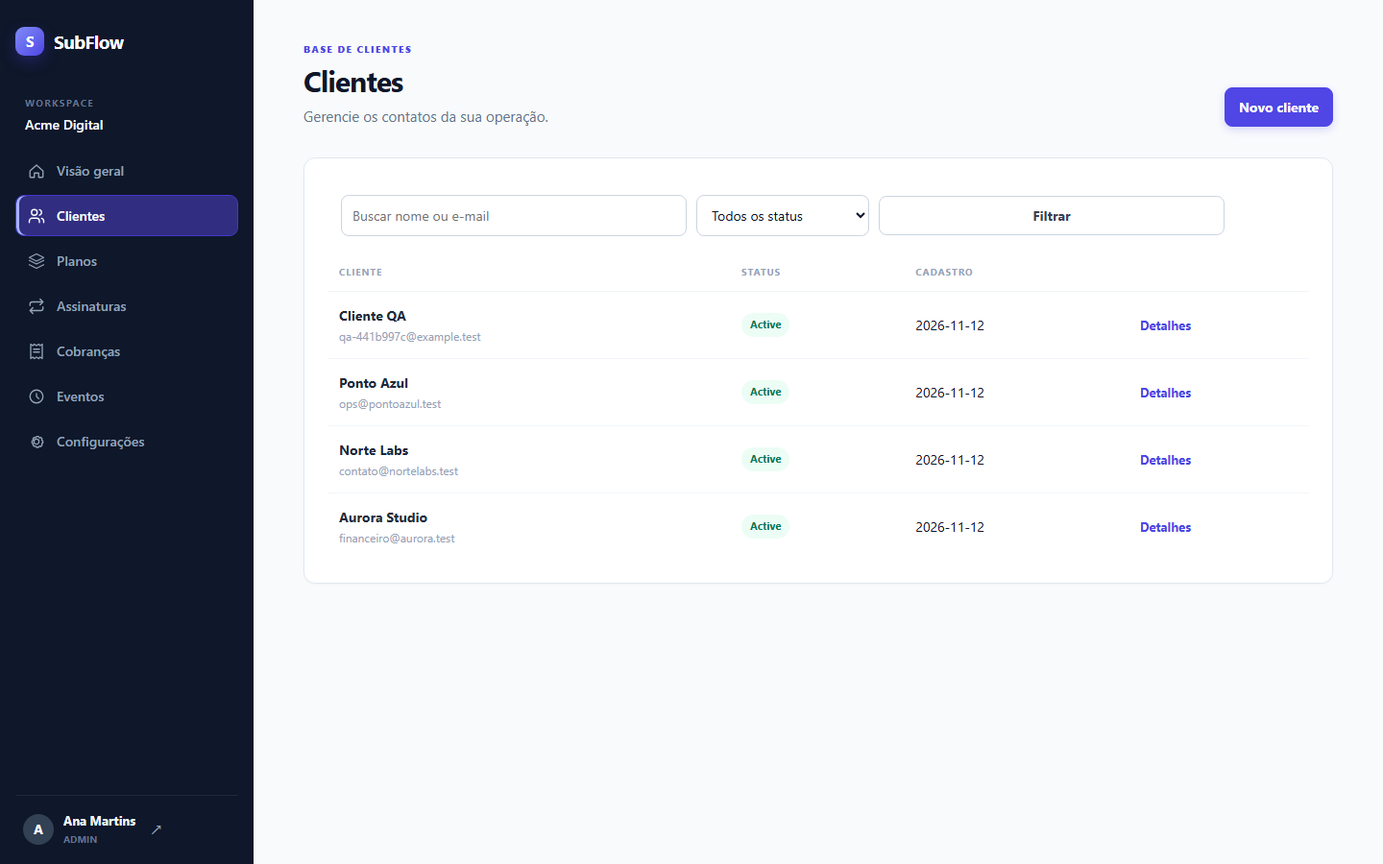
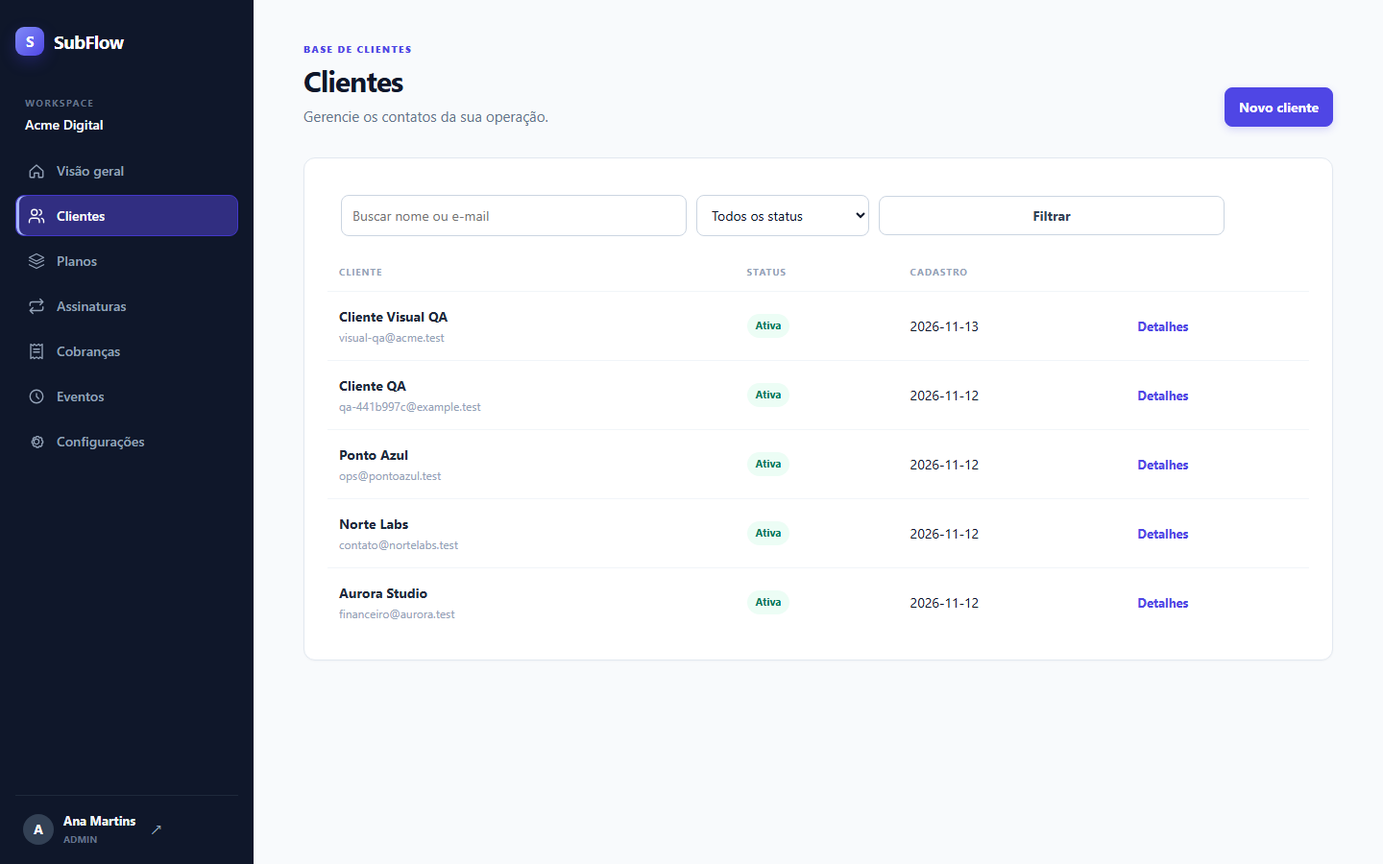
feat: refina dashboard, responsividade e apresentação do SubFlow

diff --git a/app/assets/stylesheets/application.css b/app/assets/stylesheets/application.css
@@ -1,3 +1,32 @@
 @import "tailwindcss";
-@layer base { :root{--ink:#0f172a;--muted:#64748b;--line:#e2e8f0;--surface:#fff;--canvas:#f8fafc;--primary:#4f46e5;--navy:#0f172a;--success:#059669;--warning:#d97706;--danger:#dc2626}*{box-sizing:border-box}body{margin:0;background:var(--canvas);color:var(--ink);font:14px Inter,ui-sans-serif,system-ui,-apple-system,BlinkMacSystemFont,"Segoe UI",sans-serif;line-height:1.5}a{color:inherit;text-decoration:none}button,input,select,textarea{font:inherit}button{cursor:pointer}h1,h2,h3,p{margin:0} }
-.app-shell{min-height:100vh;padding-left:264px}.sidebar{position:fixed;inset:0 auto 0 0;width:264px;background:var(--navy);padding:28px 16px 18px;color:#cbd5e1;display:flex;flex-direction:column;z-index:20}.brand{display:flex;align-items:center;gap:10px;color:#fff;font-size:19px;font-weight:750;letter-spacing:-.5px}.brand-mark{width:30px;height:30px;border-radius:9px;display:grid;place-items:center;background:linear-gradient(135deg,#818cf8,#4f46e5);font-size:15px;box-shadow:0 6px 16px #4338ca55}.workspace-label{color:#64748b;font-size:10px;font-weight:700;letter-spacing:.13em;margin:42px 10px 4px}.workspace-name{color:#f8fafc;font-weight:600;margin:0 10px 16px}.desktop-nav{display:grid;gap:4px}.nav-link{display:flex;align-items:center;gap:12px;padding:10px 12px;border:1px solid transparent;border-radius:9px;color:#94a3b8;font-weight:550;transition:.15s ease}.nav-link:hover{color:#fff;background:#1e293b}.nav-link.is-active{color:#fff;background:#312e81;border-color:#4338ca;box-shadow:inset 3px 0 #a5b4fc}.icon{width:18px;height:18px;flex:none}.sidebar-user{border-top:1px solid #1e293b;margin-top:auto;padding:16px 8px 0;display:flex;align-items:center;gap:10px}.avatar{width:32px;height:32px;border-radius:50%;background:#334155;color:#fff;display:grid;place-items:center;font-weight:700}.sidebar-user strong{display:block;color:#f1f5f9;font-size:13px}.sidebar-user small{display:block;color:#64748b;font-size:10px;font-weight:700;margin-top:2px}.logout-button{margin-left:auto;border:0;background:transparent;color:#94a3b8;font-size:18px;padding:5px}.logout-button:hover{color:#fff}.mobile-topbar{display:none}.main{max-width:1440px;margin:0 auto;padding:44px 52px 64px}.page-header{display:flex;justify-content:space-between;align-items:flex-end;gap:24px;margin-bottom:32px}.eyebrow{color:var(--primary);font-size:10px;font-weight:800;letter-spacing:.14em;margin-bottom:8px}.page-header h1{font-size:30px;letter-spacing:-1px;line-height:1.15}.page-description{color:var(--muted);margin-top:8px;font-size:15px}.header-action{flex:none}.button{display:inline-flex;align-items:center;justify-content:center;min-height:40px;padding:9px 14px;border:1px solid #cbd5e1;border-radius:8px;background:#fff;color:#334155;font-weight:650;white-space:nowrap;transition:.15s}.button:hover{border-color:#94a3b8;background:#f8fafc}.button.primary{background:var(--primary);border-color:var(--primary);color:#fff;box-shadow:0 3px 8px #4f46e533}.button.primary:hover{background:#4338ca}.button.danger{color:#b91c1c;border-color:#fecaca}.button.danger:hover{background:#fff1f2}.section-card,.panel{background:var(--surface);border:1px solid var(--line);border-radius:12px;box-shadow:0 1px 2px #0f172a08}.panel{padding:24px}.section-heading{display:flex;justify-content:space-between;align-items:center;margin-bottom:18px}.section-heading h2{font-size:16px;letter-spacing:-.2px}.section-heading a{color:var(--primary);font-weight:650;font-size:13px}.metric-grid{display:grid;grid-template-columns:repeat(4,minmax(0,1fr));gap:16px;margin-bottom:20px}.metric{padding:19px;border:1px solid var(--line);border-radius:12px;background:#fff;min-height:126px;display:flex;flex-direction:column}.metric-label{display:flex;align-items:center;justify-content:space-between;color:var(--muted);font-size:12px;font-weight:650}.metric-icon{width:28px;height:28px;display:grid;place-items:center;border-radius:8px;background:#eef2ff;color:var(--primary)}.metric strong{font-size:25px;letter-spacing:-1px;margin-top:auto}.metric small{color:var(--muted);font-size:11px}.metric.featured{grid-column:span 2;background:linear-gradient(135deg,#312e81,#4f46e5);border:0;color:#fff;box-shadow:0 12px 24px #4338ca2e}.metric.featured .metric-label,.metric.featured small{color:#c7d2fe}.metric.featured .metric-icon{background:#ffffff1c;color:#fff}.metric.featured strong{font-size:31px}.dashboard-lower{display:grid;grid-template-columns:minmax(0,1.55fr) minmax(270px,.75fr);gap:20px}.status-summary{display:grid;gap:13px}.status-row{display:grid;grid-template-columns:76px 1fr 28px;gap:10px;align-items:center;font-size:12px;color:#475569}.status-track{height:7px;border-radius:99px;background:#f1f5f9;overflow:hidden}.status-fill{height:100%;border-radius:inherit;background:#818cf8}.status-fill.paid{background:#34d399}.status-fill.failed{background:#fb7185}.status-badge{display:inline-flex;width:max-content;align-items:center;border-radius:999px;padding:4px 9px;font-size:11px;font-weight:750;text-transform:capitalize;background:#eef2ff;color:#4338ca}.status-active,.status-paid{background:#ecfdf5;color:#047857}.status-canceled,.status-failed{background:#fff1f2;color:#be123c}.status-open,.status-past_due,.status-trialing{background:#fffbeb;color:#b45309}.status-inactive{background:#f1f5f9;color:#475569}.table-wrap{overflow-x:auto}.data-table{width:100%;border-collapse:collapse}.data-table th{text-align:left;color:#94a3b8;font-size:10px;text-transform:uppercase;letter-spacing:.09em;padding:0 12px 12px;font-weight:750}.data-table td{padding:14px 12px;border-top:1px solid #f1f5f9;vertical-align:middle}.data-table tr:hover td{background:#fafafa}.entity-name{font-weight:650;color:#1e293b}.entity-meta{display:block;color:#94a3b8;font-size:12px;margin-top:2px}.table-link{color:var(--primary);font-weight:650;font-size:13px}.cards{display:grid;grid-template-columns:repeat(auto-fit,minmax(250px,1fr));gap:16px}.plan-card{position:relative;padding:22px;display:flex;flex-direction:column;gap:16px;background:#fff;border:1px solid var(--line);border-radius:12px;transition:.15s}.plan-card:hover{transform:translateY(-2px);box-shadow:0 12px 22px #0f172a0d;border-color:#c7d2fe}.plan-card h2{font-size:18px}.plan-card p{color:var(--muted);font-size:13px;min-height:40px}.plan-price{font-size:26px;font-weight:750;letter-spacing:-1px}.plan-price small{font-size:12px;color:var(--muted);font-weight:500;letter-spacing:0}.plan-card .button{margin-top:auto}.form-card{max-width:760px}.form-grid{display:grid;grid-template-columns:repeat(2,minmax(0,1fr));gap:18px}.form-grid label{display:grid;gap:7px;color:#334155;font-size:13px;font-weight:650}.wide{grid-column:1/-1}.form-actions{display:flex;align-items:end;gap:10px}.field-hint{color:#94a3b8;font-size:11px;font-weight:450}input,select,textarea{width:100%;border:1px solid #cbd5e1;border-radius:8px;background:#fff;color:#0f172a;padding:10px 11px;outline:0;transition:.15s}textarea{min-height:100px;resize:vertical}input:focus,select:focus,textarea:focus{border-color:#6366f1;box-shadow:0 0 0 3px #6366f11f}.check-label{display:flex!important;align-items:center;gap:9px}.check-label input{width:16px;height:16px}.filters{display:flex;align-items:center;gap:10px;padding:14px;margin-bottom:16px}.filters input{max-width:360px}.filters select{max-width:180px}.detail-grid{display:grid;grid-template-columns:repeat(3,minmax(0,1fr));gap:0}.detail-grid>div{padding:2px 22px;border-right:1px solid var(--line);display:grid;gap:7px}.detail-grid>div:first-child{padding-left:0}.detail-grid>div:last-child{border:0}.detail-label{color:#94a3b8;font-size:11px;text-transform:uppercase;font-weight:750;letter-spacing:.08em}.simulation{display:flex;align-items:center;gap:10px;background:#fffbeb;border:1px solid #fde68a;border-radius:10px;padding:12px 14px;color:#92400e;font-size:12px}.simulation strong{letter-spacing:.05em}.empty-state{text-align:center;padding:48px 20px;color:var(--muted)}.empty-icon{width:42px;height:42px;border-radius:12px;margin:0 auto 12px;display:grid;place-items:center;background:#eef2ff;color:#4f46e5;font-size:25px}.empty-state h2{font-size:16px;color:#334155;margin-bottom:5px}.empty-state p{font-size:13px;max-width:350px;margin:0 auto 16px}.form-error,.flash{display:flex;gap:9px;align-items:center;border-radius:9px;padding:12px 14px;margin-bottom:20px;font-size:13px}.form-error,.flash-alert{background:#fff1f2;color:#be123c;border:1px solid #fecdd3}.flash-notice{background:#ecfdf5;color:#047857;border:1px solid #a7f3d0}.flash span{font-weight:800}.auth-shell{min-height:100vh;background:#f8fafc}.auth-shell .main{padding:0;max-width:none}.auth-layout{min-height:100vh;display:grid;grid-template-columns:1fr 1fr}.auth-aside{background:linear-gradient(145deg,#0f172a,#1e1b4b);color:#fff;padding:clamp(36px,7vw,100px);display:flex;flex-direction:column}.auth-aside .brand{margin-bottom:auto}.auth-aside h1{font-size:clamp(32px,4vw,52px);line-height:1.06;letter-spacing:-2px;max-width:480px;margin-top:80px}.auth-aside p{color:#c7d2fe;max-width:410px;margin-top:18px;font-size:16px}.auth-points{display:grid;gap:12px;margin-top:40px;color:#e0e7ff;font-size:13px}.auth-points span:before{content:'✓';color:#a5b4fc;margin-right:10px}.auth-content{display:grid;place-items:center;padding:32px}.auth-card{width:min(100%,420px)}.auth-card .brand{color:var(--ink);margin-bottom:42px}.auth-card h1{font-size:28px;letter-spacing:-1px;margin-bottom:8px}.auth-card>p{color:var(--muted)}.auth-card form{display:grid;gap:17px;margin:30px 0}.auth-card label{display:grid;gap:7px;color:#334155;font-size:13px;font-weight:650}.auth-card .button{width:100%;margin-top:5px}.auth-footer{font-size:13px}.auth-footer a{color:var(--primary);font-weight:650}.sr-only{position:absolute;width:1px;height:1px;padding:0;margin:-1px;overflow:hidden;clip:rect(0,0,0,0);white-space:nowrap;border:0}@media(max-width:900px){.app-shell{padding-left:0}.sidebar{display:none}.mobile-topbar{height:64px;padding:0 20px;background:var(--navy);display:flex;align-items:center;justify-content:space-between}.mobile-menu summary{list-style:none;color:#fff;font-size:24px;cursor:pointer;padding:8px}.mobile-menu summary::-webkit-details-marker{display:none}.mobile-menu nav{position:absolute;right:14px;top:57px;width:260px;padding:10px;background:#0f172a;border:1px solid #334155;border-radius:10px;box-shadow:0 18px 40px #0f172a55;display:grid;gap:3px}.mobile-menu .nav-link{color:#cbd5e1}.mobile-menu .nav-link.is-active{background:#312e81}.mobile-logout{border:0;border-top:1px solid #334155;background:transparent;color:#cbd5e1;text-align:left;padding:12px;font-weight:650;margin-top:5px}.main{padding:32px 28px}.metric-grid{grid-template-columns:repeat(2,minmax(0,1fr))}.dashboard-lower{grid-template-columns:1fr}.auth-layout{grid-template-columns:1fr}.auth-aside{display:none}}@media(max-width:560px){.main{padding:26px 16px 44px}.page-header{display:block;margin-bottom:24px}.page-header h1{font-size:25px}.header-action{margin-top:16px}.header-action .button{width:100%}.metric-grid{grid-template-columns:1fr;gap:12px}.metric.featured{grid-column:auto}.metric{min-height:108px}.filters{display:grid}.filters input,.filters select{max-width:none}.filters .button{width:100%}.panel{padding:17px;border-radius:10px}.data-table th,.data-table td{padding-left:8px;padding-right:8px}.form-grid{grid-template-columns:1fr}.form-actions{display:grid}.form-actions .button{width:100%}.detail-grid{grid-template-columns:1fr;gap:14px}.detail-grid>div{padding:0;border:0}.simulation{align-items:flex-start;flex-wrap:wrap}.auth-content{padding:28px 22px}.auth-card .brand{margin-bottom:32px}}@media(prefers-reduced-motion:reduce){*,*:before,*:after{transition:none!important;scroll-behavior:auto!important}}
+
+@layer base {
+  :root { --ink:#0f172a; --muted:#64748b; --line:#e2e8f0; --surface:#fff; --canvas:#f8fafc; --primary:#4f46e5; --navy:#0f172a; }
+  * { box-sizing:border-box; }
+  body { margin:0; background:var(--canvas); color:var(--ink); font:14px Inter,ui-sans-serif,system-ui,-apple-system,"Segoe UI",sans-serif; line-height:1.5; }
+  a { color:inherit; text-decoration:none; } button,input,select,textarea { font:inherit; } button { cursor:pointer; } h1,h2,h3,p { margin:0; }
+}
+
+.app-shell { min-height:100vh; padding-left:264px; background:var(--navy); }
+.sidebar { position:fixed; inset:0 auto 0 0; z-index:20; display:flex; flex-direction:column; width:264px; padding:28px 16px 18px; color:#cbd5e1; background:var(--navy); }
+.brand { display:flex; align-items:center; gap:10px; color:#fff; font-size:19px; font-weight:750; letter-spacing:-.5px; }
+.brand-mark { display:grid; width:30px; height:30px; place-items:center; border-radius:9px; background:linear-gradient(135deg,#818cf8,#4f46e5); font-size:15px; box-shadow:0 6px 16px #4338ca55; }
+.workspace-label { margin:42px 10px 4px; color:#64748b; font-size:10px; font-weight:700; letter-spacing:.13em; }.workspace-name { margin:0 10px 16px; color:#f8fafc; font-weight:600; }
+.desktop-nav { display:grid; gap:4px; }.nav-link { display:flex; align-items:center; gap:12px; padding:10px 12px; border:1px solid transparent; border-radius:9px; color:#94a3b8; font-weight:550; transition:.15s ease; }.nav-link:hover { color:#fff; background:#1e293b; }.nav-link.is-active { border-color:#4338ca; color:#fff; background:#312e81; box-shadow:inset 3px 0 #a5b4fc; }.icon { flex:none; width:18px; height:18px; }
+.sidebar-user { display:flex; align-items:center; gap:10px; margin-top:auto; padding:16px 8px 0; border-top:1px solid #1e293b; }.avatar { display:grid; width:32px; height:32px; place-items:center; border-radius:50%; color:#fff; background:#334155; font-weight:700; }.sidebar-user strong { display:block; color:#f1f5f9; font-size:13px; }.sidebar-user small { display:block; margin-top:2px; color:#64748b; font-size:10px; font-weight:700; }.logout-button { margin-left:auto; padding:5px; border:0; color:#94a3b8; background:transparent; font-size:18px; }.logout-button:hover { color:#fff; }
+.mobile-topbar { display:none; }.main { min-height:100vh; max-width:1440px; margin:0 auto; padding:44px 52px 64px; background:var(--canvas); }
+.page-header { display:flex; align-items:flex-end; justify-content:space-between; gap:24px; margin-bottom:32px; }.eyebrow { margin-bottom:8px; color:var(--primary); font-size:10px; font-weight:800; letter-spacing:.14em; }.page-header h1 { font-size:30px; line-height:1.15; letter-spacing:-1px; }.page-description { margin-top:8px; color:var(--muted); font-size:15px; }.header-action { flex:none; }
+.button { display:inline-flex; align-items:center; justify-content:center; min-height:40px; padding:9px 14px; border:1px solid #cbd5e1; border-radius:8px; color:#334155; background:#fff; font-weight:650; white-space:nowrap; transition:.15s; }.button:hover { border-color:#94a3b8; background:#f8fafc; }.button.primary { border-color:var(--primary); color:#fff; background:var(--primary); box-shadow:0 3px 8px #4f46e533; }.button.primary:hover { background:#4338ca; }.button.danger { border-color:#fecaca; color:#b91c1c; }.button.danger:hover { background:#fff1f2; }
+.panel,.section-card { border:1px solid var(--line); border-radius:12px; background:var(--surface); box-shadow:0 1px 2px #0f172a08; }.panel { padding:24px; }.section-heading { display:flex; align-items:center; justify-content:space-between; margin-bottom:18px; }.section-heading h2 { font-size:16px; letter-spacing:-.2px; }.section-heading a,.table-link { color:var(--primary); font-size:13px; font-weight:650; }
+.metric-grid { display:grid; grid-template-columns:repeat(4,minmax(0,1fr)); gap:16px; margin-bottom:20px; }.metric { display:flex; flex-direction:column; min-height:138px; padding:19px; border:1px solid var(--line); border-radius:12px; background:#fff; }.metric-label { display:flex; align-items:center; justify-content:space-between; color:var(--muted); font-size:12px; font-weight:650; }.metric-icon { display:grid; width:28px; height:28px; place-items:center; border-radius:8px; color:var(--primary); background:#eef2ff; }.metric strong { margin-top:auto; font-size:27px; letter-spacing:-1px; }.metric small { color:var(--muted); font-size:11px; }.metric.featured { color:#fff; border:0; background:linear-gradient(135deg,#312e81,#4f46e5); box-shadow:0 12px 24px #4338ca2e; }.metric.featured .metric-label,.metric.featured small { color:#c7d2fe; }.metric.featured .metric-icon { color:#fff; background:#ffffff1c; }.metric.featured strong { font-size:29px; }
+.dashboard-lower { display:grid; grid-template-columns:minmax(0,1.55fr) minmax(280px,.75fr); gap:20px; }.status-summary { display:grid; gap:14px; }.status-row { display:grid; grid-template-columns:78px 1fr 28px; gap:10px; align-items:center; color:#475569; font-size:12px; }.status-track { height:7px; overflow:hidden; border-radius:99px; background:#f1f5f9; }.status-fill { height:100%; border-radius:inherit; background:#818cf8; }.status-fill.paid { background:#34d399; }.status-fill.failed { background:#fb7185; }
+.table-wrap { overflow-x:auto; }.data-table { width:100%; border-collapse:collapse; }.data-table th { padding:0 12px 12px; color:#94a3b8; font-size:10px; font-weight:750; letter-spacing:.09em; text-align:left; text-transform:uppercase; }.data-table td { padding:15px 12px; border-top:1px solid #f1f5f9; vertical-align:middle; }.data-table tr:hover td { background:#fafafa; }.entity-name { color:#1e293b; font-weight:650; }.entity-meta { display:block; margin-top:2px; color:#94a3b8; font-size:12px; }.status-badge { display:inline-flex; align-items:center; width:max-content; padding:4px 9px; border-radius:999px; color:#4338ca; background:#eef2ff; font-size:11px; font-weight:750; }.status-active,.status-paid { color:#047857; background:#ecfdf5; }.status-canceled,.status-failed { color:#be123c; background:#fff1f2; }.status-open,.status-past_due,.status-trialing { color:#b45309; background:#fffbeb; }.status-inactive { color:#475569; background:#f1f5f9; }
+.pagination { display:flex; align-items:center; justify-content:space-between; gap:12px; margin-top:18px; padding-top:16px; border-top:1px solid #f1f5f9; color:var(--muted); font-size:12px; }.pagination-links { display:flex; gap:8px; }.pagination .button[aria-disabled="true"] { pointer-events:none; opacity:.45; }
+.cards { display:grid; grid-template-columns:repeat(auto-fit,minmax(250px,1fr)); gap:16px; }.plan-card { display:flex; flex-direction:column; gap:16px; padding:22px; border:1px solid var(--line); border-radius:12px; background:#fff; transition:.15s; }.plan-card:hover { border-color:#c7d2fe; box-shadow:0 12px 22px #0f172a0d; transform:translateY(-2px); }.plan-card h2 { font-size:18px; }.plan-card p { min-height:40px; color:var(--muted); font-size:13px; }.plan-price { font-size:26px; font-weight:750; letter-spacing:-1px; }.plan-price small { color:var(--muted); font-size:12px; font-weight:500; letter-spacing:0; }.plan-card .button { margin-top:auto; }
+.form-card { max-width:760px; }.form-grid { display:grid; grid-template-columns:repeat(2,minmax(0,1fr)); gap:18px; }.form-grid label { display:grid; gap:7px; color:#334155; font-size:13px; font-weight:650; }.wide { grid-column:1/-1; }.form-actions { display:flex; align-items:end; gap:10px; }.field-hint { color:#94a3b8; font-size:11px; font-weight:450; } input,select,textarea { width:100%; padding:10px 11px; border:1px solid #cbd5e1; border-radius:8px; outline:0; color:#0f172a; background:#fff; transition:.15s; } textarea { min-height:100px; resize:vertical; } input:focus,select:focus,textarea:focus { border-color:#6366f1; box-shadow:0 0 0 3px #6366f11f; }.check-label { display:flex!important; align-items:center; gap:9px; }.check-label input { width:16px; height:16px; }
+.filters { display:flex; align-items:center; gap:10px; padding:14px; margin-bottom:16px; }.filters input { max-width:360px; }.filters select { max-width:180px; }.detail-grid { display:grid; grid-template-columns:repeat(3,minmax(0,1fr)); gap:0; }.detail-grid>div { display:grid; gap:7px; padding:2px 22px; border-right:1px solid var(--line); }.detail-grid>div:first-child { padding-left:0; }.detail-grid>div:last-child { border:0; }.detail-label { color:#94a3b8; font-size:11px; font-weight:750; letter-spacing:.08em; text-transform:uppercase; }.simulation { display:flex; align-items:center; gap:10px; padding:12px 14px; border:1px solid #fde68a; border-radius:10px; color:#92400e; background:#fffbeb; font-size:12px; }.simulation strong { letter-spacing:.05em; }
+.empty-state { padding:48px 20px; color:var(--muted); text-align:center; }.empty-icon { display:grid; width:42px; height:42px; margin:0 auto 12px; place-items:center; border-radius:12px; color:#4f46e5; background:#eef2ff; font-size:25px; }.empty-state h2 { margin-bottom:5px; color:#334155; font-size:16px; }.empty-state p { max-width:350px; margin:0 auto 16px; font-size:13px; }.form-error,.flash { display:flex; align-items:center; gap:9px; padding:12px 14px; margin-bottom:20px; border-radius:9px; font-size:13px; }.form-error,.flash-alert { border:1px solid #fecdd3; color:#be123c; background:#fff1f2; }.flash-notice { border:1px solid #a7f3d0; color:#047857; background:#ecfdf5; }.flash span { font-weight:800; }
+.auth-shell { min-height:100vh; background:#f8fafc; }.auth-shell .main { max-width:none; padding:0; }.auth-layout { display:grid; min-height:100vh; grid-template-columns:1fr 1fr; }.auth-aside { display:flex; flex-direction:column; padding:clamp(36px,7vw,100px); color:#fff; background:linear-gradient(145deg,#0f172a,#1e1b4b); }.auth-aside .brand { margin-bottom:auto; }.auth-aside h1 { max-width:480px; margin-top:80px; font-size:clamp(32px,4vw,52px); line-height:1.06; letter-spacing:-2px; }.auth-aside p { max-width:410px; margin-top:18px; color:#c7d2fe; font-size:16px; }.auth-points { display:grid; gap:12px; margin-top:40px; color:#e0e7ff; font-size:13px; }.auth-points span:before { content:"✓"; margin-right:10px; color:#a5b4fc; }.auth-content { display:grid; padding:32px; place-items:center; }.auth-card { width:min(100%,420px); }.auth-card .brand { margin-bottom:42px; color:var(--ink); }.auth-card h1 { margin-bottom:8px; font-size:28px; letter-spacing:-1px; }.auth-card>p { color:var(--muted); }.auth-card form { display:grid; gap:17px; margin:30px 0; }.auth-card label { display:grid; gap:7px; color:#334155; font-size:13px; font-weight:650; }.auth-card .button { width:100%; margin-top:5px; }.auth-footer { font-size:13px; }.auth-footer a { color:var(--primary); font-weight:650; }.sr-only { position:absolute; width:1px; height:1px; padding:0; margin:-1px; overflow:hidden; clip:rect(0,0,0,0); white-space:nowrap; border:0; }
+@media (max-width:900px) { .app-shell { padding-left:0; }.sidebar { display:none; }.mobile-topbar { display:flex; align-items:center; justify-content:space-between; height:64px; padding:0 20px; background:var(--navy); }.mobile-menu summary { padding:8px; color:#fff; cursor:pointer; font-size:24px; list-style:none; }.mobile-menu summary::-webkit-details-marker { display:none; }.mobile-menu nav { position:absolute; top:57px; right:14px; z-index:30; display:grid; width:260px; gap:3px; padding:10px; border:1px solid #334155; border-radius:10px; background:#0f172a; box-shadow:0 18px 40px #0f172a55; }.mobile-menu .nav-link { color:#cbd5e1; }.mobile-menu .nav-link.is-active { background:#312e81; }.mobile-logout { padding:12px; margin-top:5px; border:0; border-top:1px solid #334155; color:#cbd5e1; background:transparent; font-weight:650; text-align:left; }.main { padding:32px 28px; }.metric-grid { grid-template-columns:repeat(2,minmax(0,1fr)); }.dashboard-lower { grid-template-columns:1fr; }.auth-layout { grid-template-columns:1fr; }.auth-aside { display:none; } }
+@media (max-width:560px) { .main { padding:26px 16px 44px; }.page-header { display:block; margin-bottom:24px; }.page-header h1 { font-size:25px; }.header-action { margin-top:16px; }.header-action .button { width:100%; }.metric-grid { grid-template-columns:1fr; gap:12px; }.metric { min-height:108px; }.filters { display:grid; }.filters input,.filters select { max-width:none; }.filters .button { width:100%; }.panel { padding:17px; border-radius:10px; }.data-table th,.data-table td { padding-right:8px; padding-left:8px; }.form-grid { grid-template-columns:1fr; }.form-actions { display:grid; }.form-actions .button { width:100%; }.detail-grid { grid-template-columns:1fr; gap:14px; }.detail-grid>div { padding:0; border:0; }.simulation { align-items:flex-start; flex-wrap:wrap; }.pagination { align-items:flex-start; flex-direction:column; }.auth-content { padding:28px 22px; }.auth-card .brand { margin-bottom:32px; } }
+@media (prefers-reduced-motion:reduce) { *,*:before,*:after { scroll-behavior:auto!important; transition:none!important; } }

diff --git a/app/helpers/application_helper.rb b/app/helpers/application_helper.rb
@@ -1,8 +1,20 @@
 module ApplicationHelper
   NAV_ITEMS = [ [ "Visão geral", :root_path, "home" ], [ "Clientes", :customers_path, "users" ], [ "Planos", :plans_path, "layers" ], [ "Assinaturas", :subscriptions_path, "repeat" ], [ "Cobranças", :invoices_path, "receipt" ], [ "Eventos", :audit_events_path, "clock" ], [ "Configurações", :settings_path, "settings" ] ].freeze
 
+  STATUS_LABELS = {
+    active: "Ativa", canceled: "Cancelada", trialing: "Em teste", past_due: "Em atraso",
+    open: "Aberta", paid: "Paga", failed: "Com falha", void: "Cancelada", inactive: "Inativo"
+  }.freeze
+  ENTITY_LABELS = { "Invoice" => "Fatura", "Subscription" => "Assinatura", "Customer" => "Cliente", "Plan" => "Plano" }.freeze
+  AUDIT_ACTIONS = { "invoice.generated" => "Fatura gerada", "subscription.created" => "Assinatura criada", "subscription.activated" => "Assinatura ativada", "subscription.canceled" => "Assinatura cancelada", "customer.created" => "Cliente criado", "customer.updated" => "Cliente atualizado", "plan.created" => "Plano criado", "plan.updated" => "Plano atualizado" }.freeze
+
   def money(cents) = number_to_currency(cents.to_i / 100.0, unit: "R$ ", separator: ",", delimiter: ".")
-  def status_badge(status) = content_tag(:span, status.to_s.humanize, class: "status-badge status-#{status}")
+  def format_date(date) = date.present? ? I18n.l(date, format: "%d/%m/%Y") : "—"
+  def format_datetime(datetime) = datetime.present? ? I18n.l(datetime, format: "%d/%m/%Y às %H:%M") : "—"
+  def status_label(status) = STATUS_LABELS.fetch(status.to_sym, status.to_s.humanize)
+  def status_badge(status) = content_tag(:span, status_label(status), class: "status-badge status-#{status}")
+  def entity_label(type) = ENTITY_LABELS.fetch(type, type)
+  def audit_action_label(action) = AUDIT_ACTIONS.fetch(action, action.tr(".", " ").humanize)
 
   def nav_icon(name)
     paths = { "home" => "M3 12l9-8 9 8v8a1 1 0 01-1 1h-5v-6H9v6H4a1 1 0 01-1-1v-8z", "users" => "M16 21v-2a4 4 0 00-4-4H6a4 4 0 00-4 4v2M9 11a4 4 0 100-8 4 4 0 000 8zm13 10v-2a4 4 0 00-3-3.87M16 3.13a4 4 0 010 7.75", "layers" => "M12 2L2 7l10 5 10-5-10-5zm-10 9l10 5 10-5M2 17l10 5 10-5", "repeat" => "M17 2l4 4-4 4M3 11V9a3 3 0 013-3h15M7 22l-4-4 4-4m14-1v2a3 3 0 01-3 3H3", "receipt" => "M4 2v20l3-2 2 2 3-2 3 2 2-2 3 2V2l-3 2-2-2-3 2-3-2-2 2-3-2zM8 9h8M8 13h8", "clock" => "M12 8v4l3 3m6-3a9 9 0 11-18 0 9 9 0 0118 0z", "settings" => "M12 15.5a3.5 3.5 0 100-7 3.5 3.5 0 000 7zM19.4 15a1.65 1.65 0 00.33 1.82l.06.06-2 2-.06-.06a1.65 1.65 0 00-1.82-.33 1.65 1.65 0 00-1 1.51V20h-3v-.09a1.65 1.65 0 00-1-1.51 1.65 1.65 0 00-1.82.33l-.06.06-2-2 .06-.06A1.65 1.65 0 007.4 15a1.65 1.65 0 00-1.51-1H5.8v-3h.09a1.65 1.65 0 001.51-1 1.65 1.65 0 00-.33-1.82L7 8.12l2-2 .06.06a1.65 1.65 0 001.82.33 1.65 1.65 0 001-1.51V4.9h3V5a1.65 1.65 0 001 1.51 1.65 1.65 0 001.82-.33l.06-.06 2 2-.06.06A1.65 1.65 0 0019.4 10c.15.61.69 1 1.31 1h.09v3h-.09c-.62 0-1.16.39-1.31 1z" }

diff --git a/spec/requests/invoices_pagination_spec.rb b/spec/requests/invoices_pagination_spec.rb
@@ -1,0 +1,26 @@
+require "rails_helper"
+
+RSpec.describe "Paginação de faturas", type: :request do
+  let(:account) { create(:account) }
+  let(:admin) { create(:user, account:) }
+
+  before do
+    post login_path, params: { email: admin.email, password: "password-segura-123" }
+  end
+
+  it "pagina no backend sem expor faturas de outra empresa" do
+    create_list(:invoice, 16, account:)
+    other_invoice = create(:invoice)
+
+    get invoices_path
+
+    expect(response).to have_http_status(:ok)
+    expect(response.body).to include("Página <strong>1</strong> de <strong>2</strong>")
+    expect(response.body).not_to include("Fatura ##{other_invoice.id}")
+
+    get invoices_path(page: 2)
+
+    expect(response).to have_http_status(:ok)
+    expect(response.body).to include("Página <strong>2</strong> de <strong>2</strong>")
+  end
+end

diff --git a/app/controllers/invoices_controller.rb b/app/controllers/invoices_controller.rb
@@ -1,7 +1,14 @@
 class InvoicesController < ApplicationController
   before_action :require_authentication
   before_action :set_invoice, only: %i[show simulate_payment]
-  def index = @invoices = current_account.invoices.includes(:customer, :subscription).order(created_at: :desc)
+  def index
+    @per_page = 15
+    @page = [ params.fetch(:page, 1).to_i, 1 ].max
+    scope = current_account.invoices.includes(:customer, subscription: :plan).order(created_at: :desc, id: :desc)
+    @total_pages = [ (scope.count.to_f / @per_page).ceil, 1 ].max
+    @page = @total_pages if @page > @total_pages
+    @invoices = scope.offset((@page - 1) * @per_page).limit(@per_page)
+  end
   def show; end
   def simulate_payment
     require_admin

diff --git a/README.md b/README.md
@@ -1,27 +1,86 @@
 # SubFlow
 
-SaaS B2B de portfólio para gerir clientes, planos, assinaturas e cobranças recorrentes **simuladas**. Não processa pagamentos reais.
+[![CI](https://github.com/caiorocha7/subflow-rails/actions/workflows/ci.yml/badge.svg?branch=main)](https://github.com/caiorocha7/subflow-rails/actions/workflows/ci.yml)
 
-## Executar
+SubFlow é um SaaS B2B para operar clientes, planos, assinaturas e cobranças recorrentes simuladas. A experiência administrativa reúne dados isolados por empresa, auditoria operacional e uma interface responsiva para acompanhar receita recorrente sem confundir estimativas com pagamentos reais.
 
-1. Inicie o Docker Desktop.
-2. `docker compose up --build`
-3. Em outro terminal: `docker compose exec web bin/rails db:seed`
-4. Abra http://localhost:3000.
+> Os pagamentos deste projeto são exclusivamente simulados; nenhuma transação financeira real é processada.
 
-Demo: `admin@acme.test` / `subflow-demo-2026`. O seed exibe no terminal um token Bearer novo para a API.
+![Dashboard do SubFlow](docs/screenshots/dashboard.png)
+
+## Tecnologias
+
+Rails 8.1 · Ruby 3.3 · PostgreSQL · Redis · Sidekiq · Hotwire/Turbo · Stimulus · Tailwind CSS · RSpec · Docker Compose
+
+## Funcionalidades principais
+
+- Gestão de clientes, planos e assinaturas por workspace.
+- Ciclo de vida de assinaturas: teste, ativação e cancelamento.
+- Faturas idempotentes por assinatura e período de cobrança.
+- Processamento assíncrono de eventos e pagamentos simulados.
+- Auditoria, API REST autenticada, HMAC e proteção contra duplicidade.
+- Permissões ADMIN/MEMBER, isolamento multi-tenant e interface responsiva.
+
+## Galeria
+
+<p align="center">
+  <img src="docs/screenshots/clientes.png" alt="Listagem de clientes do SubFlow" width="48%" />
+  <img src="docs/screenshots/planos.png" alt="Catálogo de planos do SubFlow" width="48%" />
+</p>
+<p align="center">
+  <img src="docs/screenshots/assinaturas.png" alt="Listagem de assinaturas do SubFlow" width="48%" />
+  <img src="docs/screenshots/assinatura-detalhe.png" alt="Detalhe de assinatura" width="48%" />
+</p>
+<p align="center">
+  <img src="docs/screenshots/cobrancas.png" alt="Cobranças simuladas" width="48%" />
+  <img src="docs/screenshots/cobranca-detalhe.png" alt="Detalhe de cobrança simulada" width="48%" />
+</p>
+<p align="center">
+  <img src="docs/screenshots/login.png" alt="Login do SubFlow" width="48%" />
+  <img src="docs/screenshots/dashboard-mobile.png" alt="Dashboard do SubFlow em dispositivo móvel" width="24%" />
+</p>
 
 ## Arquitetura
 
-Monólito modular Rails 8.1: controllers finos, services para transições e cobrança, PostgreSQL como fonte de verdade e Sidekiq/Redis para jobs. Todo recurso privado é consultado a partir de `current_account` (web) ou da conta Bearer (API). Valores são armazenados em centavos.
+O SubFlow é um monólito modular Rails. Controllers aplicam autenticação e escopo da conta atual; services encapsulam transições de assinatura, geração de cobrança e processamento de eventos. PostgreSQL é a fonte de verdade e Redis/Sidekiq executam trabalhos assíncronos.
 
-Uma fatura possui índice único em `(subscription_id, period_start)`; transação e lock tornam a geração idempotente. Eventos usam `event_id` único, HMAC/timestamp e job idempotente. O cron Sidekiq executa diariamente às 06:00. MRR soma as assinaturas ativas e anual / 12; não é receita recebida.
+```text
+Web / API → Controllers → Services → PostgreSQL
+                         ↘ Sidekiq / Redis → processamento assíncrono
+```
+
+## Cobrança e idempotência
+
+Cada fatura tem índice único em `(subscription_id, period_start)`. A geração ocorre em transação e com lock, evitando cobranças duplicadas. Eventos de pagamento possuem `event_id` único; o webhook verifica HMAC/timestamp e o job de processamento é idempotente.
+
+O MRR exibido é uma estimativa de receita recorrente a partir das assinaturas ativas — não é dinheiro efetivamente recebido.
+
+## Segurança e multi-tenancy
+
+- Recursos web são consultados a partir de `current_account`.
+- A API identifica a empresa pelo Bearer token, sem aceitar `account_id` externo.
+- ADMIN altera a operação; MEMBER mantém apenas o acesso permitido.
+- Webhooks validam assinatura HMAC e rejeitam duplicatas.
+- Tokens e chaves locais não são versionados; use o `.env.example` apenas como referência.
+
+## Executar com Docker
+
+1. Inicie o Docker Desktop.
+2. Suba os serviços:
+
+   ```bash
+   docker compose up --build
+   ```
+
+3. Em outro terminal, prepare dados locais fictícios:
+
+   ```bash
+   docker compose exec web bin/rails db:seed
+   ```
+
+4. Abra [http://localhost:3000](http://localhost:3000).
 
 ## Testes e qualidade
-
-Use `Authorization: Bearer TOKEN` nos endpoints `/api/v1/customers`, `/plans`, `/subscriptions` e `/invoices`. O webhook é `POST /api/v1/webhooks/payments` e requer HMAC SHA-256.
-
-Com o ambiente Docker ativo, execute a suíte completa com:
 
 ```bash
 docker compose exec -e RAILS_ENV=test web bin/rails db:prepare
@@ -30,19 +89,15 @@ docker compose exec web bundle exec rubocop
 docker compose exec web bundle exec brakeman -q
 ```
 
-A suíte usa PostgreSQL real e cobre autenticação, autorização ADMIN/MEMBER, isolamento de tenants, CRUD, ciclo de assinaturas, faturamento idempotente, jobs, pagamentos, webhooks e API autenticada.
+## Documentação técnica
 
-## Interface validada
+- [Arquitetura](docs/ARCHITECTURE.md)
+- [Banco de dados](docs/DATABASE.md)
+- [API](docs/API.md)
+- [Decisões](docs/DECISIONS.md)
 
-Capturas reais produzidas durante a validação local:
+## Limitações
 
-- [Login](docs/screenshots/login.png)
-- [Dashboard](docs/screenshots/dashboard.png)
-- [Clientes](docs/screenshots/clientes.png)
-- [Planos](docs/screenshots/planos.png)
-- [Assinaturas](docs/screenshots/assinaturas.png)
-- [Cobranças](docs/screenshots/cobrancas.png)
-- [Eventos](docs/screenshots/eventos.png)
-- [Dashboard mobile](docs/screenshots/dashboard-mobile.png)
-
-Consulte também [Arquitetura](docs/ARCHITECTURE.md), [Banco](docs/DATABASE.md), [API](docs/API.md) e [Decisões](docs/DECISIONS.md).
+- Pagamentos e notificações são deliberadamente simulados.
+- Não há integração com gateway financeiro real.
+- A paginação administrativa está disponível na listagem de faturas; as demais listas preservam o escopo apropriado para o MVP.
